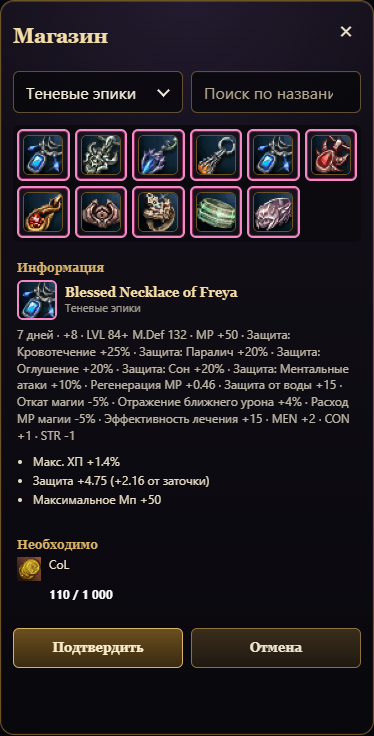
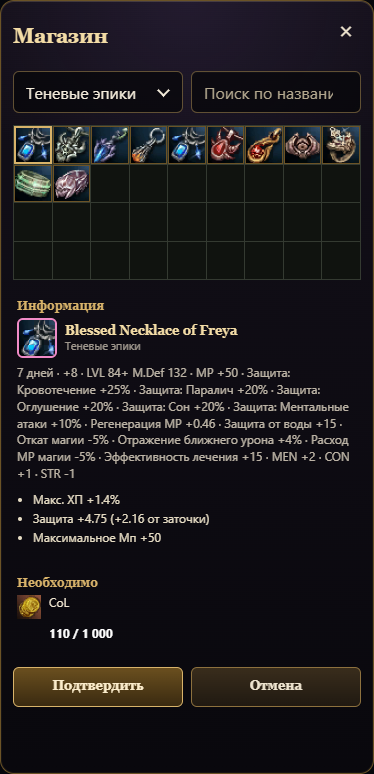
Reuse continuous item grid in inventory shops trade and warehouses

diff --git a/webapp/inventory.js b/webapp/inventory.js
@@ -1,3 +1,4 @@
+import {itemGridHtml} from './item-grid.js';
 const walletNumber = value => new Intl.NumberFormat('ru-RU',{notation:Number(value)>=1e6?'compact':'standard',maximumFractionDigits:1}).format(value||0);
 import {openWarehouseGame} from './warehouse.js';
 import {openTradeGame} from './trade.js';
@@ -64,7 +65,7 @@ function materialGroup(item){
 function materialBag(items,selected){
  return MATERIAL_GROUPS.map(([kind,label])=>{
   const rows=items.filter(item=>materialGroup(item)===kind);if(!rows.length)return '';
-  return `<details class="inventory-material-group" open><summary>${l2CategoryIcon(kind)} ${label} · ${rows.length}</summary><div class="inv-bag">${rows.map(item=>`<button type="button" class="inv-slot ${selected===item.key?'selected':''}" data-inventory-material="${escapeHtml(item.key)}" title="${escapeHtml(item.name)} ×${item.count}" aria-label="${escapeHtml(item.name)} ×${item.count}">${materialIcon(item.key)}<em>${formatNumber(item.count)}</em></button>`).join('')}</div></details>`;
+  return `<details class="inventory-material-group" open><summary>${l2CategoryIcon(kind)} ${label} · ${rows.length}</summary><div class="inv-bag">${rows.map(item=>`<button type="button" class="item-grid-cell inv-slot ${selected===item.key?'selected':''}" data-inventory-material="${escapeHtml(item.key)}" title="${escapeHtml(item.name)} ×${item.count}" aria-label="${escapeHtml(item.name)} ×${item.count}">${materialIcon(item.key)}<em>${formatNumber(item.count)}</em></button>`).join('')}</div></details>`;
  }).join('');
 }
 
@@ -124,7 +125,7 @@ export async function openInventoryGame({ api, renderState, haptic, statusElemen
 
   function slotHtml(item) {
     return `
-      <button type="button" class="inv-slot ${item.count <= 0 ? 'empty' : ''} ${selectedKind==='potion'&&item.key === selectedKey ? 'selected' : ''}" data-inventory-select="${escapeHtml(item.key)}" aria-label="${escapeHtml(item.name)} ×${formatNumber(item.count)}">
+      <button type="button" class="item-grid-cell inv-slot ${item.count <= 0 ? 'empty' : ''} ${selectedKind==='potion'&&item.key === selectedKey ? 'selected' : ''}" data-inventory-select="${escapeHtml(item.key)}" aria-label="${escapeHtml(item.name)} ×${formatNumber(item.count)}">
         ${flaskHtml(item)}
         <em>${formatNumber(item.count)}</em>
       </button>`;
@@ -137,8 +138,8 @@ export async function openInventoryGame({ api, renderState, haptic, statusElemen
   /** The bag of the current filter: one grid of icons, empty cells fill the last row. */
   function bagSlots() {
     const potions = state.potions.map(slotHtml);
-    const equipment = (state.equipment || []).map(item => `<button type="button" class="inv-slot ${item.shadow?'is-shadow-item':''} ${selectedKind === 'equipment' && selectedKey === item.key ? 'selected' : ''}" data-inventory-equipment="${escapeHtml(item.key)}" title="${escapeHtml(item.name)}${item.isUsed ? ' · Надето' : ''}" aria-label="${escapeHtml(item.name)}">${equipmentArt(item)}${item.enchant ? `<i class="inv-plus">+${item.enchant}</i>` : ''}${item.isUsed ? '<i class="inv-worn" aria-hidden="true"></i>' : ''}</button>`);
-    const materialSlot = item => `<button type="button" class="inv-slot ${selectedKind === 'material' && selectedKey === item.key ? 'selected' : ''}" data-inventory-material="${escapeHtml(item.key)}" title="${escapeHtml(item.name)} ×${item.count}" aria-label="${escapeHtml(item.name)} ×${item.count}">${materialIcon(item.key)}<em>${formatNumber(item.count)}</em></button>`;
+    const equipment = (state.equipment || []).filter(item => !item.isUsed).map(item => `<button type="button" class="item-grid-cell inv-slot ${item.shadow?'is-shadow-item':''} ${selectedKind === 'equipment' && selectedKey === item.key ? 'selected' : ''}" data-inventory-equipment="${escapeHtml(item.key)}" title="${escapeHtml(item.name)}${item.isUsed ? ' · Надето' : ''}" aria-label="${escapeHtml(item.name)}">${equipmentArt(item)}${item.enchant ? `<i class="inv-plus">+${item.enchant}</i>` : ''}${item.isUsed ? '<i class="inv-worn" aria-hidden="true"></i>' : ''}</button>`);
+    const materialSlot = item => `<button type="button" class="item-grid-cell inv-slot ${selectedKind === 'material' && selectedKey === item.key ? 'selected' : ''}" data-inventory-material="${escapeHtml(item.key)}" title="${escapeHtml(item.name)} ×${item.count}" aria-label="${escapeHtml(item.name)} ×${item.count}">${materialIcon(item.key)}<em>${formatNumber(item.count)}</em></button>`;
     const materials = state.materials || [];
     const supplies = materials.filter(isSupplyMaterial).map(materialSlot);
     const rest = materials.filter(item => !isSupplyMaterial(item)).map(materialSlot);
@@ -147,7 +148,7 @@ export async function openInventoryGame({ api, renderState, haptic, statusElemen
         : filter === 'material' ? rest
           : [...equipment, ...potions, ...supplies, ...rest];
     const total = Math.max(30, Math.ceil(cells.length / 6) * 6);
-    return cells.join('') + '<span class="inv-slot blank" aria-hidden="true"></span>'.repeat(total - cells.length);
+    return itemGridHtml(cells, {className: 'inv-bag l2-bag', min: total, label: 'Инвентарь'});
   }
 
   function detailHtml() {
@@ -194,7 +195,7 @@ export async function openInventoryGame({ api, renderState, haptic, statusElemen
       ${state.buffs?.length?`<p class="inv-hint">${state.buffs.map(buff=>`${escapeHtml(buff.name)} · ${Math.max(0,Math.ceil((buff.until-Date.now())/60000))} мин.`).join(' · ')}</p>`:''}
       <section class="inventory-section">
         <nav class="inv-tabs" role="tablist" aria-label="Фильтр инвентаря">${FILTERS.map(([id, label]) => `<button type="button" role="tab" class="${filter === id ? 'active' : ''}" data-inventory-filter="${id}" aria-selected="${filter === id}">${label}</button>`).join('')}</nav>
-        <div class="inv-bag l2-bag">${bagSlots()}</div>
+        ${bagSlots()}
         <div class="inventory-title"><small>${state.slots ? `${formatNumber(state.slots.used)} / ${formatNumber(state.slots.capacity)}` : ''}</small></div>
       </section>
       ${detailHtml()}

diff --git a/webapp/warehouse.css b/webapp/warehouse.css
@@ -4,7 +4,7 @@
 .storage-panel button,.stock-transfer button{min-height:38px;border:1px solid var(--gold-dim);border-radius:7px;background:linear-gradient(#33273b,#17121e);color:#e7d7bc;padding:8px 12px;font:600 12px/1.3 system-ui}.storage-tabs button[aria-pressed=true],.stock-transfer button,.storage-actions button:first-child{border-color:var(--gold);background:linear-gradient(#67502b,#302315);color:#fbeccb}.storage-panel button:disabled{opacity:.45;cursor:default}
 .storage-note{margin:0;font:12px/1.6 system-ui;color:#b6a8bf}.stock-section{display:grid;gap:10px;min-width:0}.stock-section h3{display:flex;justify-content:space-between;flex-wrap:wrap;gap:8px;margin:0;font:700 14px Georgia;color:#f3dca6}
 .stock-grid{display:grid;grid-template-columns:repeat(auto-fill,48px);gap:4px;max-height:320px;overflow:auto;padding:5px;border:1px solid #675334;background:#0c0a0f;scrollbar-width:thin;scrollbar-color:#9b7b43 #100d16}
-.storage-panel .stock-slot{position:relative;display:grid;place-items:center;aspect-ratio:1;min-width:0;min-height:0;padding:0;border:0;border-radius:0;background:transparent}.stock-slot img{display:block;width:48px!important;height:48px!important;object-fit:contain}.stock-slot small{position:absolute;right:2px;bottom:1px;max-width:100%;font:9px/1.2 system-ui;color:#fff;text-shadow:0 1px 3px #000;overflow:hidden;text-overflow:ellipsis}.stock-slot.selected{border-color:#d8b36a!important;box-shadow:inset 0 0 0 1px #d8b36a}.stock-slot.empty{opacity:.5;border:1px solid #514344;background:#100c14}
+.storage-panel .stock-slot{position:relative;display:grid;place-items:center;aspect-ratio:1;min-width:0;min-height:0;padding:0;border:0;border-radius:0;background:transparent}.stock-slot img{display:block;object-fit:contain}.stock-slot small{position:absolute;right:2px;bottom:1px;max-width:100%;font:9px/1.2 system-ui;color:#fff;text-shadow:0 1px 3px #000;overflow:hidden;text-overflow:ellipsis}.stock-slot.selected{border-color:#d8b36a;box-shadow:inset 0 0 0 1px #d8b36a}.stock-slot.empty{opacity:.5;border:1px solid #514344;background:#100c14}
 .stock-transfer{display:grid;grid-template-columns:minmax(0,1fr) 100px;align-items:end;gap:12px;padding:14px;border:1px solid #665134;border-radius:8px;background:#17111e}.stock-transfer>div,.stock-transfer>strong{grid-column:1/-1;font:600 14px/1.4 Georgia;overflow-wrap:anywhere}.stock-transfer label{display:grid;gap:6px;font:11px system-ui;color:#b6a8bf}.stock-transfer input{box-sizing:border-box;min-width:0;width:100%;padding:10px;border:1px solid #806543;border-radius:6px;background:#0d0b11;color:#eee4cf;font:14px system-ui}.stock-transfer input::placeholder{color:#94879d}
 .storage-history{font:12px/1.6 system-ui;color:#b6a8bf}.storage-history summary{color:#d8b36a;cursor:pointer}.trade-peers{display:grid;gap:10px}.trade-ready{font:10px system-ui;color:#9d8da3}.trade-ready.on{color:#88d6ab}
 .stock-quantity{width:min(340px,calc(100vw - 32px));box-sizing:border-box;padding:18px;border:1px solid #9b7b43;border-radius:12px;background:#17111e;box-shadow:0 16px 70px #000b}.stock-quantity:not([open]){display:none}.stock-quantity::backdrop{background:#050309b8}.stock-quantity .stock-transfer{display:grid;grid-template-columns:1fr;padding:0;border:0;background:transparent}.stock-quantity .quantity-item{display:flex;gap:12px;align-items:center}.quantity-item img{width:48px!important;height:48px!important;object-fit:contain}.stock-quantity .storage-actions{grid-column:1/-1}

diff --git a/webapp/store-view.js b/webapp/store-view.js
@@ -1,3 +1,4 @@
+import {itemGridHtml} from './item-grid.js';
 import { escapeHtml } from './escape-html.js';
 
 // The inside of a shop category, laid out like the Lineage II store window: a grid of item icons on the left,
@@ -13,7 +14,7 @@ const number = value => new Intl.NumberFormat('ru-RU').format(Math.round(Number(
 export function storeViewHtml({ items, selectedId, quantity = 1, emptyText = 'Ничего не найдено.' }) {
   if (!items.length) return `<div class="shop-empty">${escapeHtml(emptyText)}</div>`;
   const selected = items.find(item => item.id === selectedId) || null;
-  const grid = items.map(item => `<button type="button" class="store-slot ${item.id === selectedId ? 'selected' : ''} ${item.canBuy ? '' : 'poor'}" data-store-slot="${escapeHtml(item.id)}" title="${escapeHtml(item.name)}" aria-label="${escapeHtml(item.name)}" aria-pressed="${item.id === selectedId}">${item.iconHtml}${item.badge ? `<em>${escapeHtml(item.badge)}</em>` : ''}</button>`).join('');
+  const grid = items.map(item => `<button type="button" class="item-grid-cell store-slot ${item.id === selectedId ? 'selected' : ''} ${item.canBuy ? '' : 'poor'}" data-store-slot="${escapeHtml(item.id)}" title="${escapeHtml(item.name)}" aria-label="${escapeHtml(item.name)}" aria-pressed="${item.id === selectedId}">${item.iconHtml}${item.badge ? `<em>${escapeHtml(item.badge)}</em>` : ''}</button>`);
   let info = '<div class="store-info"><p class="store-hint">Выбери товар слева.</p></div>';
   if (selected) {
     const count = selected.countable ? Math.max(1, Math.min(Number(quantity) || 1, selected.maxCount || 1000)) : 1;
@@ -31,7 +32,7 @@ export function storeViewHtml({ items, selectedId, quantity = 1, emptyText = 'Н
       ${selected.countable ? `<label class="store-quantity"><span>Количество</span><input type="number" min="1" max="${selected.maxCount || 1000}" step="1" inputmode="numeric" value="${count}" data-store-quantity></label>` : ''}
     </div>`;
   }
-  return `<div class="store-view"><div class="store-grid" role="listbox">${grid}</div>${info}</div>
+  return `<div class="store-view">${itemGridHtml(grid, {className: 'store-grid', label: 'Товары'})}${info}</div>
     <div class="store-actions"><button type="button" class="store-confirm" data-store-confirm ${selected?.canBuy ? '' : 'disabled'}>Подтвердить</button><button type="button" class="store-cancel" data-store-cancel ${selected ? '' : 'disabled'}>Отмена</button></div>`;
 }
 

diff --git a/webapp/item-grid.css b/webapp/item-grid.css
@@ -1,0 +1,73 @@
+/* One continuous bag surface for inventory, shops, trade and both warehouses. */
+body .item-grid.item-grid {
+  display: grid;
+  grid-template-columns: repeat(auto-fill, minmax(36px, 1fr));
+  gap: 0;
+  align-content: start;
+  min-width: 0;
+  padding: 0;
+  border: 1px solid #343a31;
+  border-right: 0;
+  border-bottom: 0;
+  border-radius: 0;
+  background: #10130f;
+  overflow: auto;
+  scrollbar-width: thin;
+  scrollbar-color: #9b7b43 #100d16;
+}
+body .game-overlay .overlay-panel .item-grid > .item-grid-cell,
+body .item-grid > .item-grid-cell {
+  position: relative;
+  display: grid;
+  place-items: center;
+  box-sizing: border-box;
+  width: 100%;
+  height: auto;
+  min-width: 0;
+  min-height: 0;
+  aspect-ratio: 1;
+  margin: 0;
+  padding: 0;
+  border: 0;
+  border-right: 1px solid #343a31;
+  border-bottom: 1px solid #343a31;
+  border-radius: 0;
+  background: transparent;
+  box-shadow: none;
+  opacity: 1;
+  overflow: hidden;
+}
+body .item-grid > .item-grid-cell img,
+body .item-grid > .item-grid-cell .shop-icon {
+  display: block;
+  width: 100%;
+  height: 100%;
+  max-width: 100%;
+  max-height: 100%;
+  object-fit: contain;
+  border-radius: 0;
+}
+body .item-grid > .item-grid-cell > img,
+body .item-grid > .item-grid-cell > .shop-icon {
+  position: absolute;
+  inset: 0;
+}
+body .item-grid > .item-grid-cell.selected,
+body .item-grid > .item-grid-cell:focus-visible {
+  outline: none;
+  box-shadow: inset 0 0 0 2px #d8b36a;
+  z-index: 1;
+}
+body .item-grid > button.item-grid-cell:hover { background: #d8b36a12; }
+body .item-grid > .item-grid-cell:has(.is-shadow-item),
+body .item-grid > .item-grid-cell.is-shadow-item { box-shadow: inset 0 0 0 2px #f18bc7; }
+body .item-grid > .item-grid-cell.selected:has(.is-shadow-item),
+body .item-grid > .item-grid-cell.selected.is-shadow-item { box-shadow: inset 0 0 0 2px #d8b36a, inset 0 0 0 3px #f18bc7; }
+body .item-grid > .item-grid-cell.selected::after,
+body .item-grid > .item-grid-cell:focus-visible::after {
+  content: '';
+  position: absolute;
+  inset: 0;
+  border: 2px solid #d8b36a;
+  pointer-events: none;
+}

diff --git a/webapp/stock-grid.js b/webapp/stock-grid.js
@@ -1,10 +1,11 @@
+import {itemGridHtml} from './item-grid.js';
 import {auctionArt} from './auction.js';
 import {materialIcon} from './material-icons.js';
 import {escapeHtml} from './escape-html.js';
 import {icon} from './icons.js';
 export function stockArt(row){return row.kind==='currency'?(row.ref==='gold'?materialIcon('gold'):icon(row.ref==='crystals'?'gem':'pickaxe')):auctionArt(row);}
-export function stockGrid(rows,{select=false,selected=-1,min=12}={}){
- return `<div class="stock-grid">${rows.map((row,index)=>`<${select?'button':'div'} ${select?'type="button"':''} class="stock-slot ${selected===index?'selected':''}" ${select?`data-stock-index="${index}"`:''} title="${escapeHtml(row.title)}${row.stats?.length?' — '+escapeHtml(row.stats.join(' · ')):''}" aria-label="${escapeHtml(row.title)} ×${row.count}">${stockArt(row)}<small>${row.count>1?new Intl.NumberFormat('ru-RU').format(row.count):''}</small></${select?'button':'div'}>`).join('')}${Array.from({length:Math.max(0,min-rows.length)},()=>'<div class="stock-slot empty" aria-hidden="true"></div>').join('')}</div>`;
+export function stockGrid(rows,{select=false,selected=-1,min=30}={}){
+ return itemGridHtml(rows.map((row,index)=>`<${select?'button':'div'} ${select?'type="button"':''} class="item-grid-cell stock-slot ${selected===index?'selected':''}" ${select?`data-stock-index="${index}"`:''} title="${escapeHtml(row.title)}${row.stats?.length?' — '+escapeHtml(row.stats.join(' · ')):''}" aria-label="${escapeHtml(row.title)} ×${row.count}">${stockArt(row)}<small>${row.count>1?new Intl.NumberFormat('ru-RU').format(row.count):''}</small></${select?'button':'div'}>`), {className: 'stock-grid', min, label: 'Предметы'});
 }
 // Gold committed to a table game cannot be moved by either trade participant.
 const GOLD_LOCK_TEXT='Адена занята в игре со ставкой. Заверши партию перед передачей.';

diff --git a/webapp/item-grid.js b/webapp/item-grid.js
@@ -1,0 +1,33 @@
+import {escapeHtml} from './escape-html.js';
+
+/** Shared bag surface. Callers supply cells and retain ownership of item actions. */
+export function itemGridHtml(cells, {className = '', min = 30, label = 'Предметы'} = {}) {
+  const empty = '<span class="item-grid-cell empty" data-grid-empty aria-hidden="true"></span>';
+  return `<l2-item-grid class="item-grid ${escapeHtml(className)}" data-min="${min}" role="group" aria-label="${escapeHtml(label)}">${cells.join('')}${empty.repeat(Math.max(0, min - cells.length))}</l2-item-grid>`;
+}
+
+// Fit complete rows to the available width without changing the caller's item cells.
+if (typeof customElements !== 'undefined' && !customElements.get('l2-item-grid')) {
+  customElements.define('l2-item-grid', class extends HTMLElement {
+    connectedCallback() {
+      this.observer = new ResizeObserver(() => this.fillRows());
+      this.observer.observe(this);
+    }
+    disconnectedCallback() { this.observer?.disconnect(); }
+    fillRows() {
+      if (!this.clientWidth) return;
+      const columns = getComputedStyle(this).gridTemplateColumns.split(' ').length;
+      const empty = [...this.querySelectorAll(':scope > [data-grid-empty]')];
+      const items = this.children.length - empty.length;
+      const target = Math.ceil(Math.max(Number(this.dataset.min), items) / columns) * columns - items;
+      if (empty.length > target) empty.slice(target).forEach(cell => cell.remove());
+      for (let count = empty.length; count < target; count++) {
+        const cell = document.createElement('span');
+        cell.className = 'item-grid-cell empty';
+        cell.setAttribute('data-grid-empty', '');
+        cell.setAttribute('aria-hidden', 'true');
+        this.append(cell);
+      }
+    }
+  });
+}

diff --git a/webapp/index.html b/webapp/index.html
@@ -59,6 +59,7 @@
   <link rel="stylesheet" href="/character.css" />
   <link rel="stylesheet" href="/buffs.css" />
   <link rel="stylesheet" href="/store-view.css" />
+  <link rel="stylesheet" href="/item-grid.css" />
   <link rel="stylesheet" href="/design-system.css" />
   <script src="https://telegram.org/js/telegram-web-app.js?59"></script>
   <script type="importmap">{"imports":{"three":"/vendor/three/build/three.module.min.js","three/addons/":"/vendor/three/examples/jsm/"}}</script>

diff --git a/docs/shared-grid/README.md b/docs/shared-grid/README.md
@@ -1,0 +1,7 @@
+# Общая сетка предметов
+
+Сетка инвентаря, магазинов, личного и кланового хранилища, обмена использует один компонент webapp/item-grid.js и один набор стилей webapp/item-grid.css.
+
+Тёмный плоский фон, квадратные клетки без отступов, тонкие границы, выделение золотом. Последняя строка заполняется пустыми клетками при изменении ширины окна. Счётчики, заточка, розовые границы теневых предметов и действия сохранены. Надетое снаряжение исключено из сумки.
+
+Проверки в Chromium: магазины и обмен/хранилища — 320, 390, 1100 px; инвентарь — 320, 390, 540, 1100 px. Покупка, использование последнего зелья, выброс, выставление на аукцион, внесение/вывод и завершение обмена проверены.
